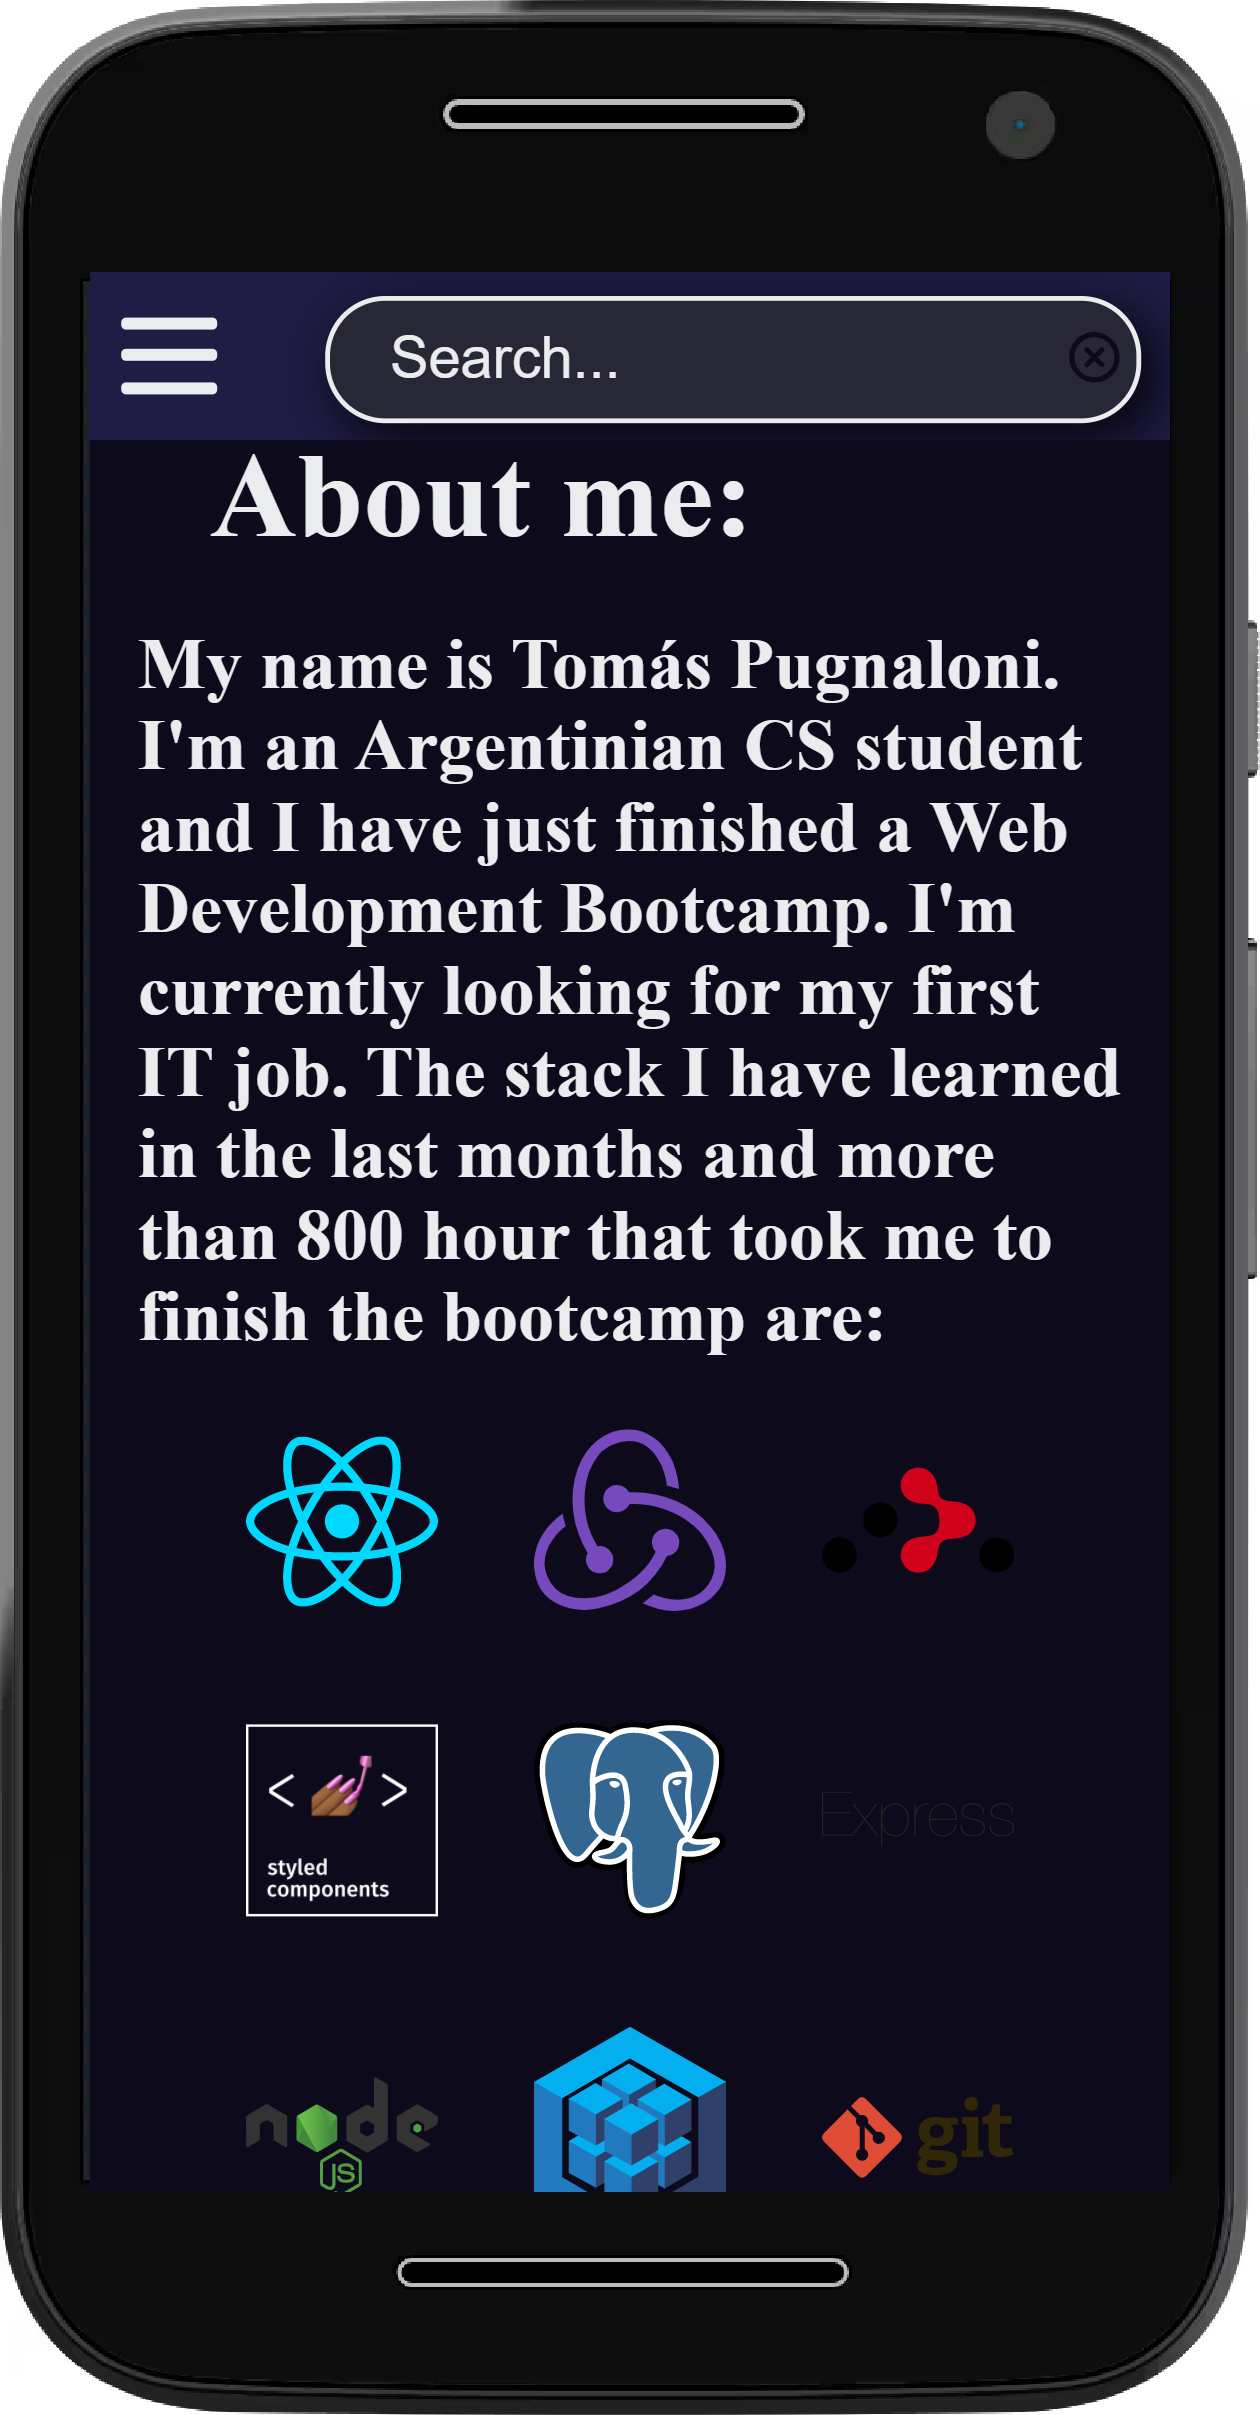
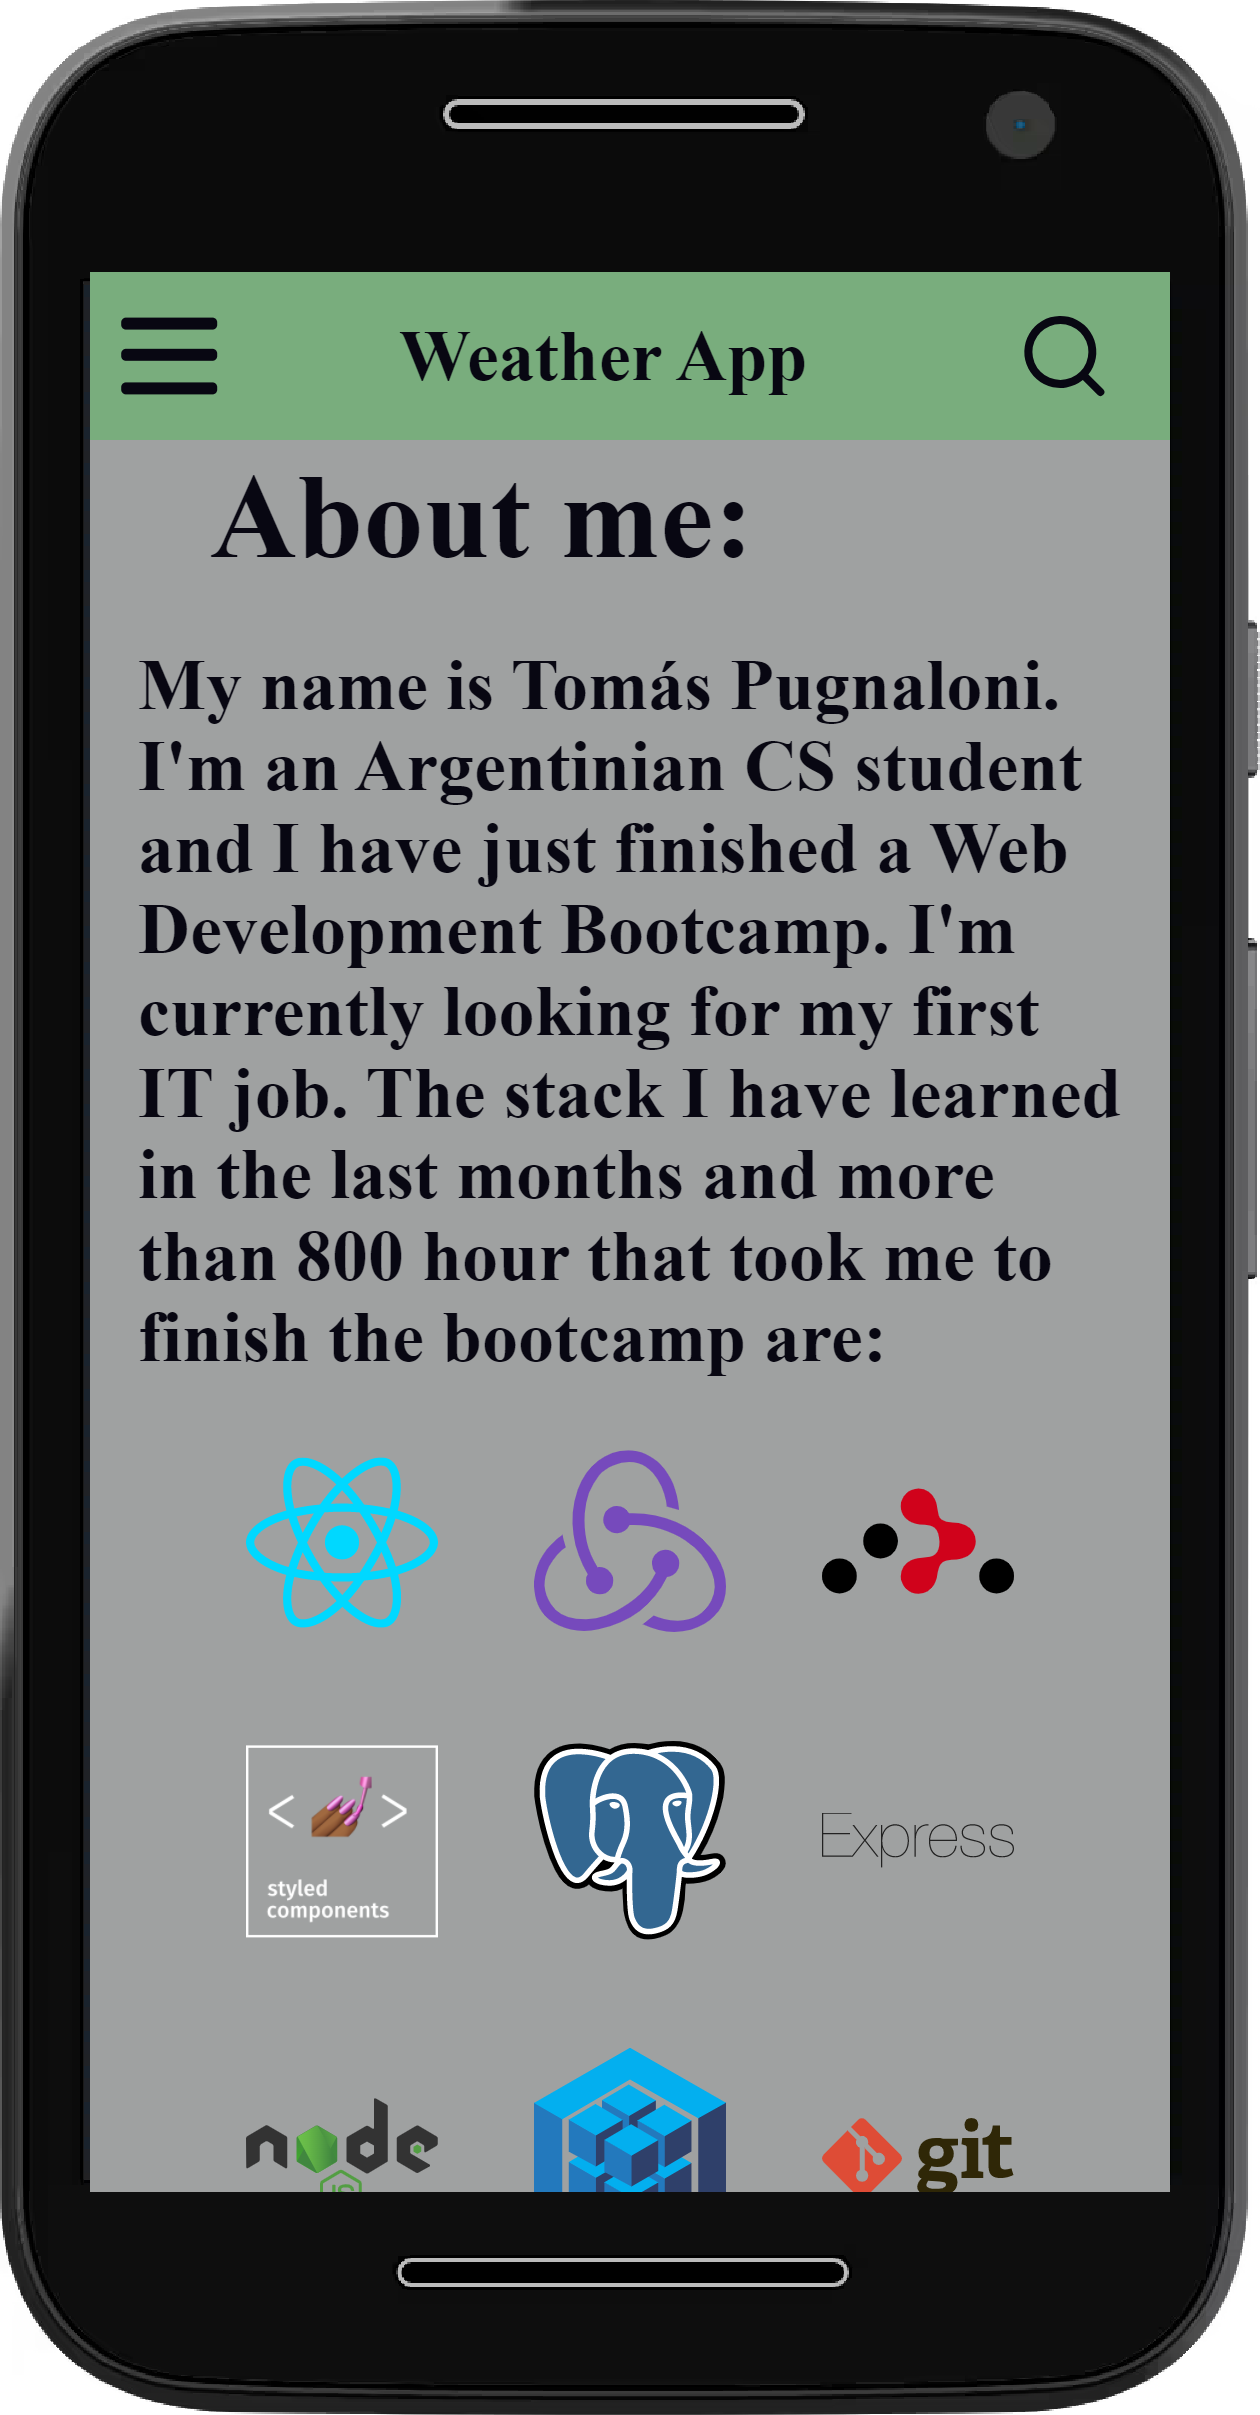
colors updated

diff --git a/src/components/About.jsx b/src/components/About.jsx
@@ -7,7 +7,7 @@ export default function About(){
         <h4>About the App:</h4>
         <p>I made this app fully responsive. If you navigate with a smartphone you will see the side menu is displayed when clicking the menu button. The search bar expands as well in both smartphones and tablet size devices. </p>
         <p>
-          It has some cool features as the dark theme, that activates depending on your browser's settings. If you change it, it will store that state and your browser will "remember" your choice next time you drop by. 
+          It has some other cool features as the dark theme, that activates depending on your browser's default settings. If you change the mode, it will store that state and your device's browser will "remember" your choice next time you drop by. 
         </p>
         <p>
           It retrieves the information from the <a href="https://openweathermap.org" target="_blank" rel="noreferrer">openweathermap's API</a>. It shares the temperature and weather of a city of your choice. In this proyect I used:
@@ -58,7 +58,7 @@ export default function About(){
           </a>
 
         </div>
-        <h3>Get in touch:</h3>
+        <h3>Let's keep in touch:</h3>
         <div>
 
         <a href="https://github.com/Elpugna" target="_blank" rel="noreferrer">

diff --git a/src/components/Card.jsx b/src/components/Card.jsx
@@ -69,7 +69,8 @@ const CardContainer = styled.div`
   cursor:pointer;
 
   font-size:${({theme})=> theme.fonts.small};
-  background: ${({theme})=>theme.colors.nav.background};
+  //background: ${({theme})=>theme.colors.nav.background};
+  background: ${({theme})=> (`linear-gradient(to bottom, ${theme.colors.nav.top}, ${theme.colors.nav.bottom})`)};
   color: ${({theme})=>theme.colors.text};
 
   transition: all 0.3s ease-in, background 0.7s ease-in-out;

diff --git a/src/Assets/theme.js b/src/Assets/theme.js
@@ -20,7 +20,9 @@ export const theme = {
 export const light ={
   colors:{
     nav:{
-      background:'#79AD7D',
+      background: "red",
+      top: "#00bfff",
+      bottom:'#0095ff',
     },
     searchIcon:{
       background:'#393e46'
@@ -39,6 +41,8 @@ export const dark = {
   colors:{
     nav:{
       color:'628C66',
+      top:"#301c45",
+      bottom:"#1F1C45",
       background:"#1F1C45",
     },
     searchIcon:{

diff --git a/src/components/Nav.jsx b/src/components/Nav.jsx
@@ -82,7 +82,8 @@ const NavWrapper = styled.nav`
   align-items: center;
   width: 100vw;
   height: 3.5rem;
-  background-color: ${({theme})=>theme.colors.nav.background};
+  background: ${({theme})=> (`linear-gradient(to bottom, ${theme.colors.nav.top}, ${theme.colors.nav.bottom})`)};
+  //background-color: ${({theme})=>theme.colors.nav.background};
   color: ${({theme})=>theme.colors.text};
   position:fixed;
   top:0;

diff --git a/src/Assets/global.js b/src/Assets/global.js
@@ -29,7 +29,7 @@ body {
   padding: 0;
   display: flex;
   justify-content: center;
-  background: ${({ theme }) => theme.colors.background.dark};
+  background: ${({ theme }) => theme.colors.background.light};
   height: 100vh;
   width: 100vw;
   transition: background 0.7s ease-out;
